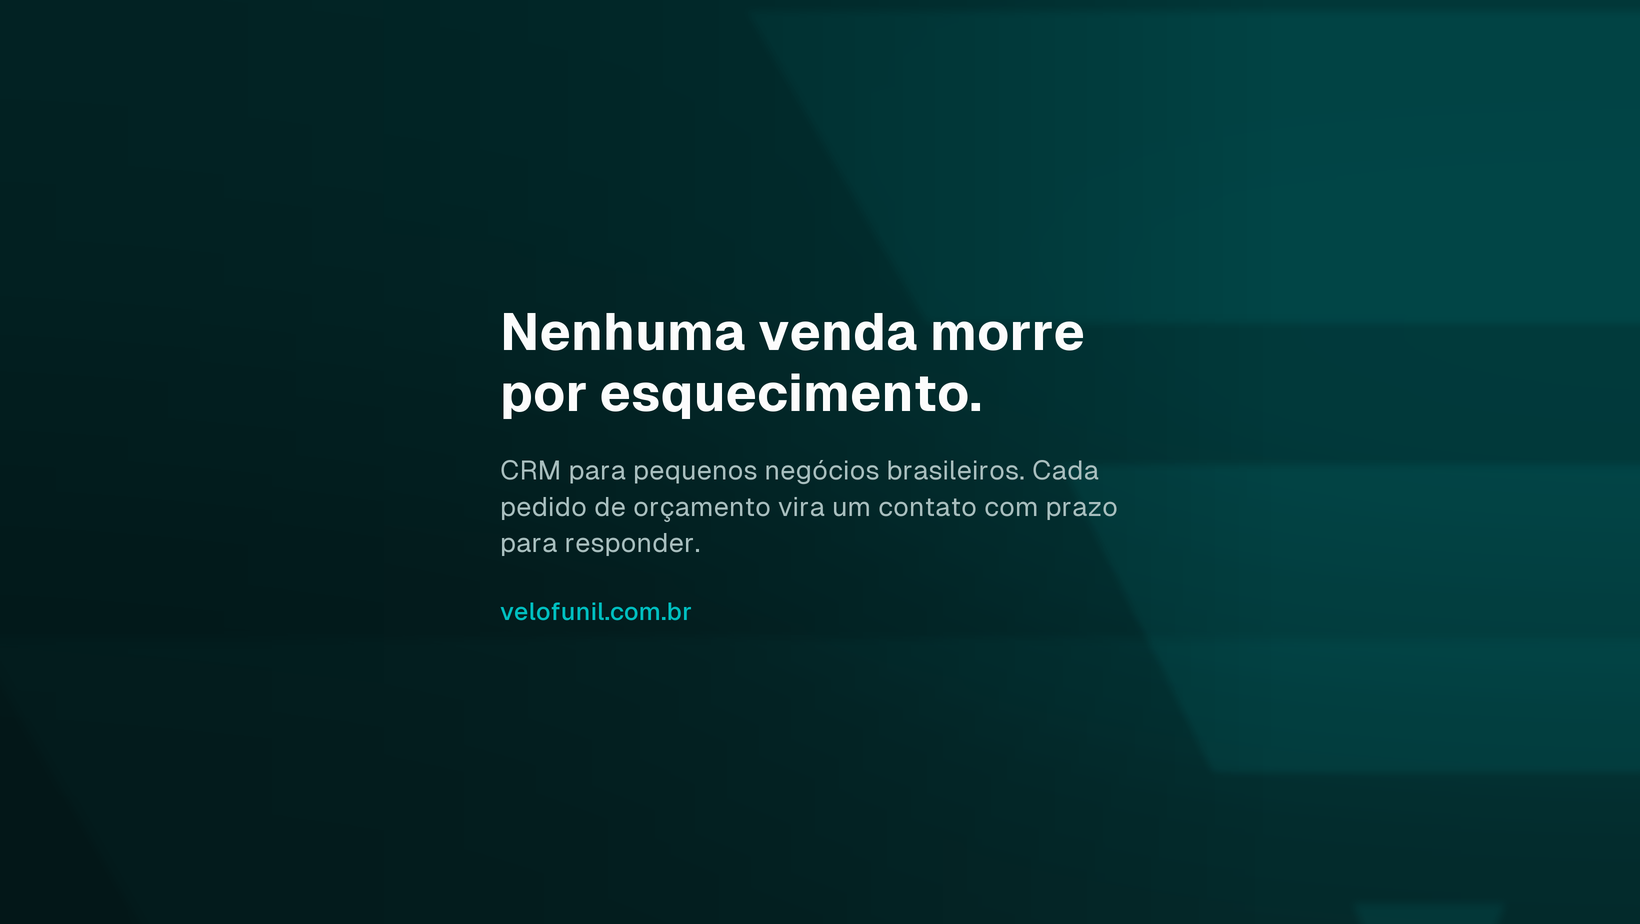
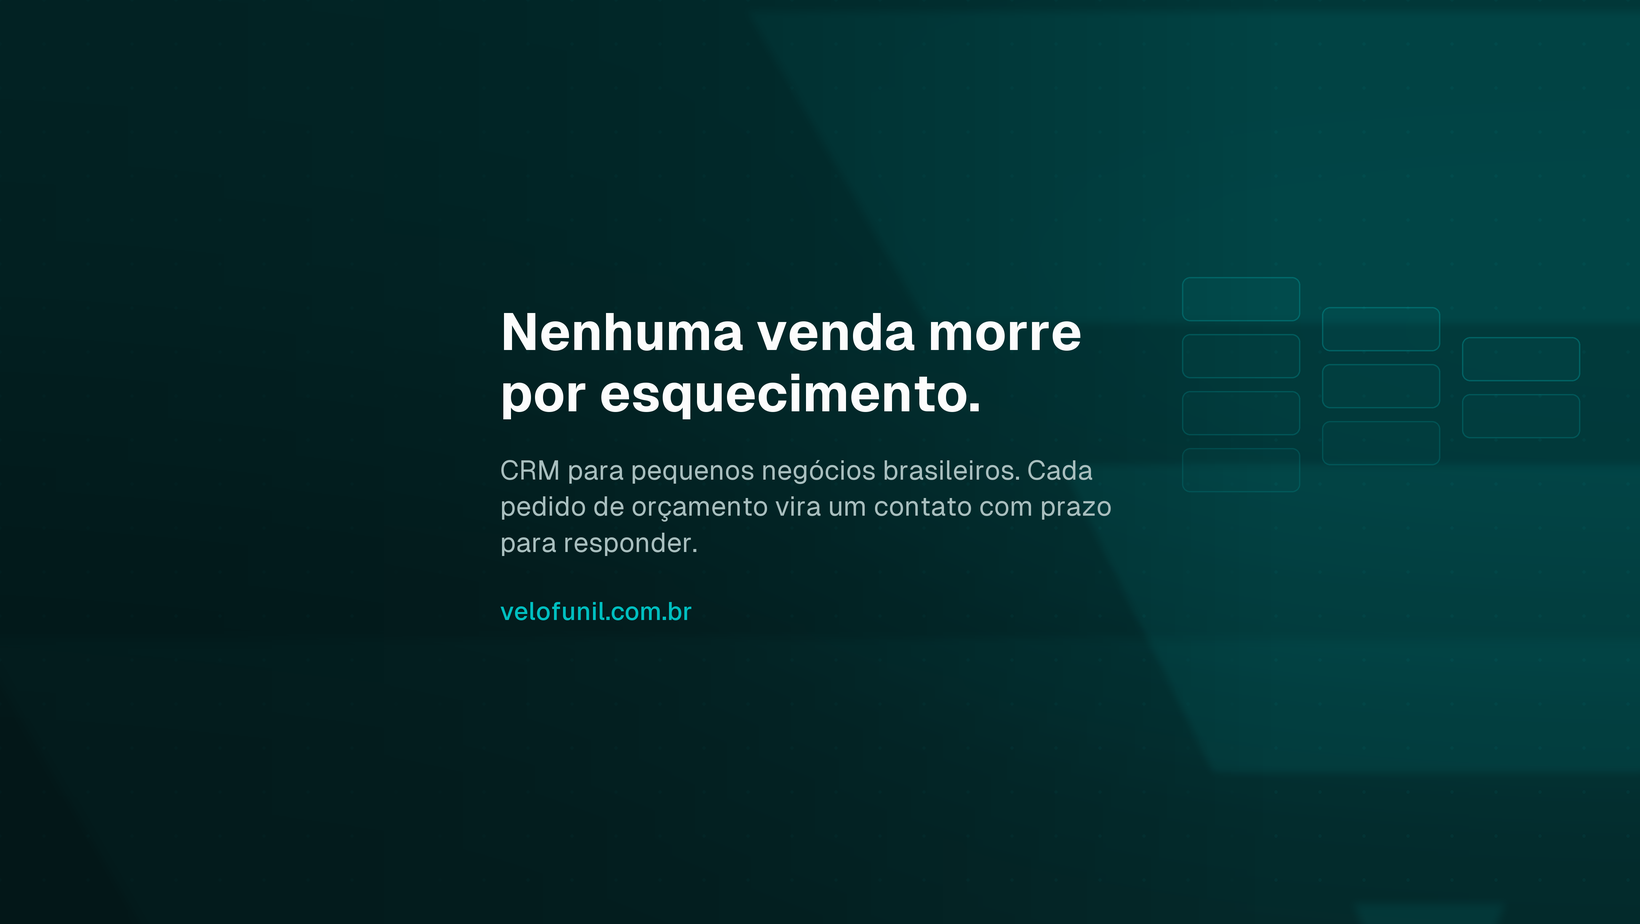
feat(marketing): a capa ganha textura, profundidade e 3x de amostragem
Pedido: mais bonita e em alta qualidade. Três camadas entraram, e cada uma
resolve algo nomeável.

**Supersampling 3x**, contra os 2x do resto da família. A peça é quase
inteiramente tipografia sobre fundo liso, vista em tela grande — nessa
combinação a borda serrilhada de uma letra é o defeito mais visível que existe,
porque não há textura nem imagem para escondê-la. Desenha em 4920x2772 e reduz.

**Trama de pontos** a 5,5%. Fundo liso em peça grande lê como chapa, e chapa é
o que separa arte feita de arte gerada. A trama dá textura sem dar assunto: não
tem forma reconhecível, só densidade. Ela desaparece sob a coluna de leitura —
trama atrás de letra reduz contraste de borda e faz a tipografia parecer suja.

**Pipeline abstrato**: três colunas de blocos, decrescentes.

## Por que isso NÃO é o print falso que critiquei na concorrência

A diferença está no que a forma afirma. Card com texto falso e botão afirma
"este é o produto", e mente. Retângulos sem rótulo em colunas decrescentes
afirmam "isto é um funil" — uma ideia, não uma captura de tela. Ninguém
confunde com print, e é isso que torna honesto.

## O defeito que a olhada pegou

`x = W * 0.735`, um número redondo que parecia razoável. Três colunas de 150
mais duas folgas de 26 somam 502px, e 0.735*1640 + 502 = 1707 numa peça de
1640: a terceira coluna saía cortada pela borda.

Agora a largura é medida e ancorada pela DIREITA, com trava que falha se o
[…]

Changed region(s): [[0.311, 0.4848, 0.6841, 0.6061], [0.3732, 0.3333, 0.653, 0.4545], [0.3421, 0.6364, 0.4043, 0.6667]]

diff --git a/scripts/marketing/gerar-capa-facebook.py b/scripts/marketing/gerar-capa-facebook.py
@@ -57,6 +57,15 @@ _spec.loader.exec_module(g)
 # e ampliação de bitmap numa peça que é 90% tipografia aparece na hora — borda
 # de letra serrilhada é o defeito mais visível que uma capa pode ter.
 
+# ## Supersampling em 3x, não nos 2x do resto da família
+#
+# Esta peça é quase inteiramente tipografia sobre fundo liso, vista em telas
+# grandes de desktop. Nessa combinação, a borda serrilhada de uma letra é o
+# defeito mais visível que existe — não há textura nem imagem para escondê-la.
+#
+# Desenhar em 4920x2772 e reduzir para 1640x924 com LANCZOS dá três amostras
+# por pixel final. Custa segundos a mais numa peça gerada uma vez por mês.
+g.ESCALA = 3
 g.W_FINAL, g.H_FINAL = 1640, 924
 g.W, g.H = g.W_FINAL * g.ESCALA, g.H_FINAL * g.ESCALA
 
@@ -121,6 +130,127 @@ def conferir_zona_segura(caixa_texto):
 
     print(f"  zona segura: {SEGURO_LARG // g.ESCALA}x{SEGURO_ALT // g.ESCALA} central, "
           f"folga de {(x0 - lim_x0) // g.ESCALA}px na esquerda")
+
+
+def trama_de_pontos(img, passo=44, raio=1.5, forca=0.055):
+    """
+    Uma trama de pontos quase invisível sobre o fundo.
+
+    ## Por que existe
+
+    Fundo liso em peça grande lê como chapa — e chapa é o que separa arte feita
+    de arte gerada. A trama dá TEXTURA sem dar assunto: ela não compete com o
+    texto porque não tem forma reconhecível, só densidade.
+
+    É o mesmo recurso do papel de impressão fina, e do fundo dos produtos que
+    esta marca persegue como régua. A 5,5% de opacidade e 1,5px de raio, ela
+    não é vista — é sentida quando alguém aproxima o olho e percebe que o fundo
+    "tem alguma coisa".
+
+    ## Por que ela some no lado do texto
+
+    A densidade cai a zero na coluna de leitura. Trama atrás de letra reduz
+    contraste de borda e faz a tipografia parecer suja — o oposto do que ela
+    veio fazer.
+    """
+    camada = Image.new("RGBA", (g.W, g.H), (0, 0, 0, 0))
+    d = ImageDraw.Draw(camada)
+    r = raio * g.ESCALA
+    salto = passo * g.ESCALA
+    inicio_texto = (g.W - SEGURO_LARG) // 2
+    fim_texto = inicio_texto + SEGURO_LARG
+
+    for y in range(0, g.H, salto):
+        for x in range(0, g.W, salto):
+            # Esvazia sob a coluna de leitura, com transição em vez de corte.
+            if inicio_texto - salto * 3 < x < fim_texto + salto * 3:
+                dist = min(abs(x - (inicio_texto - salto * 3)),
+                           abs(x - (fim_texto + salto * 3)))
+                atenua = min(1.0, dist / (salto * 3))
+                if atenua < 0.15:
+                    continue
+            else:
+                atenua = 1.0
+            d.ellipse([x - r, y - r, x + r, y + r],
+                      fill=(*g.TEAL, int(255 * forca * atenua)))
+
+    return Image.alpha_composite(img.convert("RGBA"), camada).convert("RGB")
+
+
+def pipeline_abstrato(img, forca=0.30):
+    """
+    Três colunas de blocos: a geometria de um funil de vendas.
+
+    ## Por que NÃO é um print falso de interface
+
+    Critiquei exatamente isso nos criativos da concorrência — cards de UI
+    flutuando sobre foto, inventando uma tela que não existe. A diferença aqui
+    é o que a forma afirma.
+
+    Card com texto falso e botão afirma "este é o produto", e mente. Retângulos
+    sem rótulo, em três colunas decrescentes, afirmam "isto é um funil" — que é
+    uma ideia, não uma captura de tela. Ninguém confunde com print, e é isso
+    que o torna honesto.
+
+    ## Por que decrescente e à direita
+
+    Decrescente porque é a forma do funil: muitos entram, poucos fecham. É a
+    mesma geometria da marca, dita em outra escala.
+
+    À direita porque a coluna de leitura é a esquerda, e porque o corte do
+    celular remove justamente esta faixa — a peça precisa funcionar sem ela.
+    Ela é acabamento para quem vê no desktop, nunca informação.
+    """
+    camada = Image.new("RGBA", (g.W, g.H), (0, 0, 0, 0))
+    d = ImageDraw.Draw(camada)
+
+    larg_col = int(118 * g.ESCALA)
+    folga_col = int(22 * g.ESCALA)
+    alt_bloco = int(44 * g.ESCALA)
+    folga_bloco = int(13 * g.ESCALA)
+    raio = int(8 * g.ESCALA)
+
+    # ## O x é CALCULADO, não escolhido
+    #
+    # A primeira versão usava `x = W * 0.735`, um número redondo que parecia
+    # razoável. Três colunas de 150 mais duas folgas de 26 somam 502px, e
+    # 0.735*1640 + 502 = 1707 numa peça de 1640: a terceira coluna saía cortada
+    # pela borda.
+    #
+    # Agora a largura total é medida e ancorada pela DIREITA, com margem igual
+    # à do texto. Mudar o tamanho dos blocos não pode voltar a estourar a peça.
+    largura_total = larg_col * 3 + folga_col * 2
+    margem_dir = int(60 * g.ESCALA)
+    x = g.W - margem_dir - largura_total
+
+    # E confere que não invade a coluna de leitura do celular.
+    limite_texto = (g.W - SEGURO_LARG) // 2 + SEGURO_LARG
+    if x < limite_texto + int(30 * g.ESCALA):
+        raise SystemExit(
+            f"  pipeline invade a zona de texto: comeca em {x // g.ESCALA}px, "
+            f"o texto termina em {limite_texto // g.ESCALA}px"
+        )
+
+    topo = int(g.H * 0.30)
+
+    for coluna, quantos in enumerate((4, 3, 2)):
+        y = topo + coluna * int(30 * g.ESCALA)
+        for i in range(quantos):
+            # Cada bloco mais abaixo é mais apagado: a coluna se dissolve em
+            # vez de terminar numa borda reta, que leria como corte.
+            desvanece = 1 - (i / max(quantos, 2)) * 0.55
+            alpha = int(255 * forca * desvanece)
+            d.rounded_rectangle(
+                [x, y, x + larg_col, y + alt_bloco],
+                radius=raio,
+                fill=(*g.TEAL, int(alpha * 0.16)),
+                outline=(*g.TEAL, alpha),
+                width=max(1, int(1.6 * g.ESCALA)),
+            )
+            y += alt_bloco + folga_bloco
+        x += larg_col + folga_col
+
+    return Image.alpha_composite(img.convert("RGBA"), camada).convert("RGB")
 
 
 def funil_pela_direita(img, forca=0.09):
@@ -232,6 +362,8 @@ def capa(titulo, apoio, arquivo, luz=0.30):
     g._LUZ_ATUAL = luz
     img = g.fundo_marca(escuro_extra=0.12)
     funil_pela_direita(img)
+    img = trama_de_pontos(img)
+    img = pipeline_abstrato(img)
     img = escurecer_coluna_de_leitura(img)
     draw = ImageDraw.Draw(img)
 
